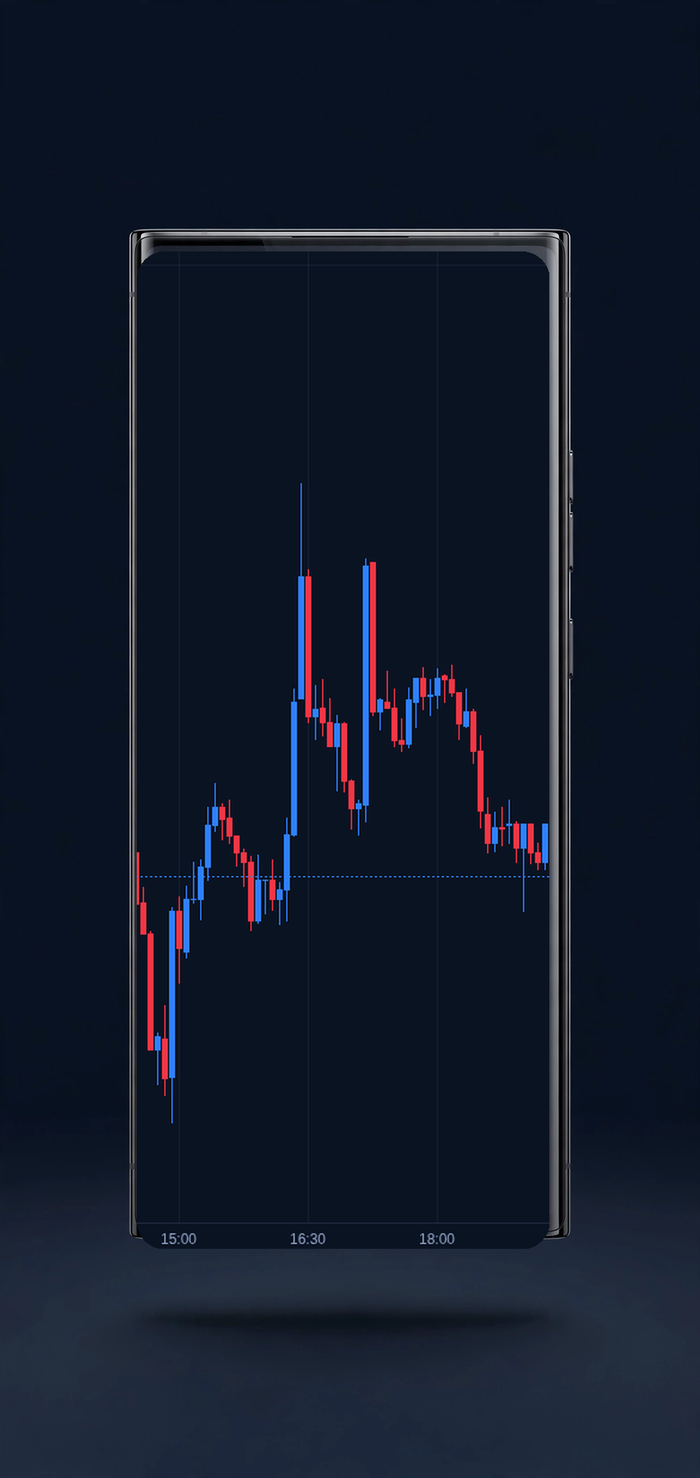
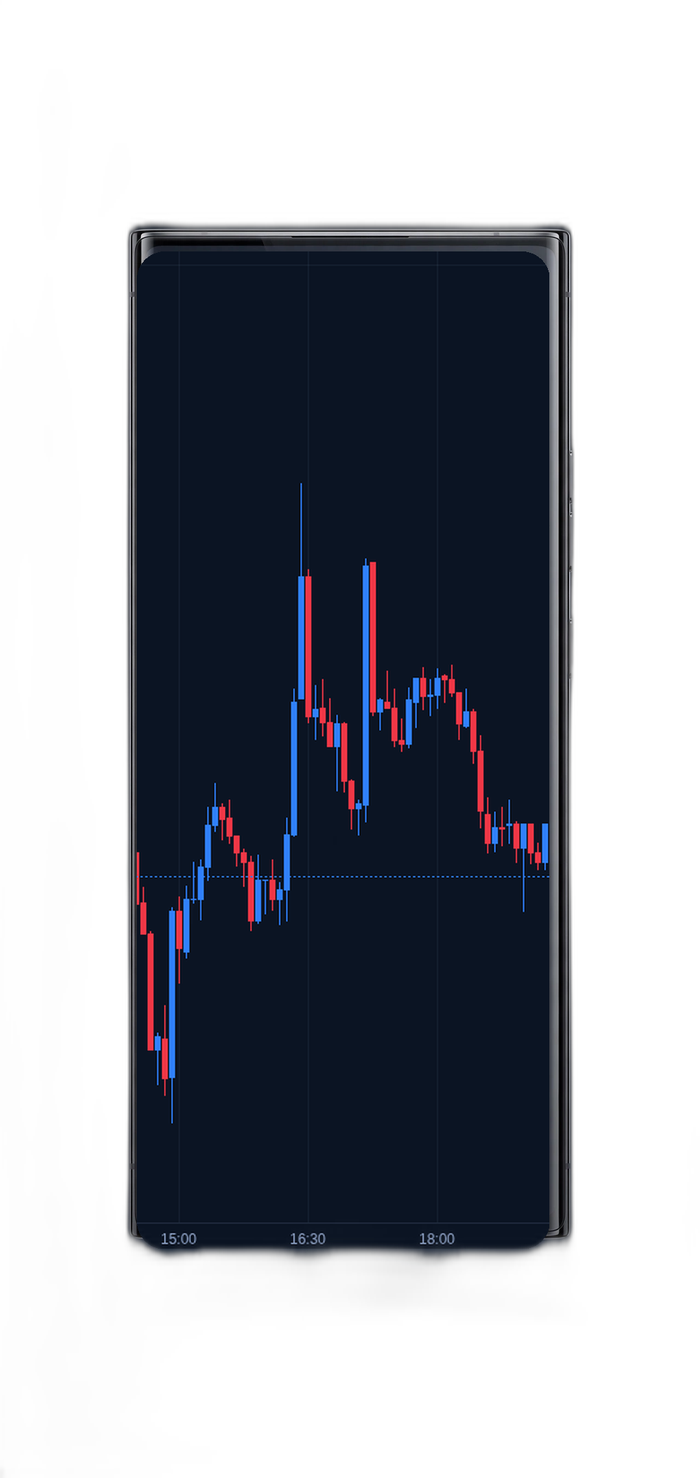
Mobile scroll fix + transparent device imagery
- Fix mobile scroll trap: hero, pitch, app, CTA sections were sticky at all
  widths; sticky stacking is now desktop-only (>=900px), normal flow on mobile
- Hero: new transparent laptop+phone composite (assets/hero-devices.png),
  both terminal views visible, no baked background card
- Markets phone mockup: background removed (transparent PNG)
- Cache-bust styles.css, hero + phone assets (20260929t7)

diff --git a/styles.css b/styles.css
@@ -96,7 +96,7 @@ h3{font-size:1.1rem;font-weight:650}
 .header-actions .btn-ghost,.header-actions .btn-primary{padding:9px 16px;font-size:.88rem}
 
 /* Hero — layered: photo, scrim, candle canvas, content, trust strip */
-.hero{padding:96px 0 110px;position:sticky;top:0;z-index:1;overflow:hidden;min-height:calc(100svh - 64px);display:flex;align-items:center}
+.hero{padding:96px 0 110px;position:relative;z-index:1;overflow:hidden;min-height:calc(100svh - 64px);display:flex;align-items:center}
 .page-curtain{position:relative;z-index:2;background:var(--bg);border-radius:26px 26px 0 0;margin-top:-26px;box-shadow:0 -24px 70px rgba(0,0,0,.45)}
 .hero-inner{will-change:transform,opacity}
 .hero-photo{position:absolute;inset:0;z-index:0;background:url('assets/hero-skyline.jpg') center 70%/cover no-repeat;opacity:.55;pointer-events:none}
@@ -112,7 +112,7 @@ h3{font-size:1.1rem;font-weight:650}
 .hero-trust span{display:flex;align-items:center;gap:7px}
 .hero-trust span+span::before{content:"";width:5px;height:5px;border-radius:50%;background:var(--brand);flex:none}
 /* Hero device (photorealistic laptop) */
-.hero-device{width:min(600px,100%);margin:0 auto;display:block;transform:translate3d(var(--px,0px),var(--py,0px),0);transition:transform .35s ease-out;animation:floaty 8s ease-in-out infinite;filter:drop-shadow(0 34px 64px rgba(0,0,0,.55))}
+.hero-device{width:min(700px,100%);margin:0 auto;display:block;transform:translate3d(var(--px,0px),var(--py,0px),0);transition:transform .35s ease-out;animation:floaty 8s ease-in-out infinite;filter:drop-shadow(0 34px 64px rgba(0,0,0,.55))}
 @keyframes floaty{0%,100%{margin-top:0}50%{margin-top:-12px}}
 @media (prefers-reduced-motion:reduce){.hero-device{animation:none}}
 .hp-top{display:flex;justify-content:space-between;align-items:center}
@@ -305,7 +305,7 @@ h3{font-size:1.1rem;font-weight:650}
 .pay-note{margin-top:10px;font-size:.78rem;color:var(--faint)}
 
 /* Pitch: live demo chart — cinematic candle backdrop + sticky stacking */
-.pitch{position:sticky;top:0;z-index:1;background:#0A1322 url("assets/demo-chart-bg.jpg") center/cover no-repeat;color:#fff;border-radius:0;isolation:isolate}
+.pitch{position:relative;z-index:1;background:#0A1322 url("assets/demo-chart-bg.jpg") center/cover no-repeat;color:#fff;border-radius:0;isolation:isolate}
 .pitch::before{content:"";position:absolute;inset:0;z-index:-1;background:linear-gradient(180deg,rgba(6,11,24,.86),rgba(6,11,24,.62) 45%,rgba(6,11,24,.9))}
 [data-theme="light"] .pitch{background:#0A1322 url("assets/demo-chart-bg.jpg") center/cover no-repeat;color:#fff}
 [data-theme="light"] .pitch::before{background:linear-gradient(180deg,rgba(10,18,36,.88),rgba(10,18,36,.66) 45%,rgba(10,18,36,.92))}
@@ -324,8 +324,8 @@ h3{font-size:1.1rem;font-weight:650}
 .demo-actions{display:grid;grid-template-columns:1fr 1fr;gap:10px;padding:14px 16px 6px}
 .demo-note{text-align:center;font-size:.75rem;color:rgba(255,255,255,.5);padding:8px 16px 14px}
 
-/* Mobile app section */
-.appsec{background:var(--bg-soft);border-top:1px solid var(--line-soft);border-bottom:1px solid var(--line-soft);position:sticky;top:0;z-index:2}
+/* Mobile app section (sticky stacking is desktop-only — see below) */
+.appsec{background:var(--bg-soft);border-top:1px solid var(--line-soft);border-bottom:1px solid var(--line-soft)}
 
 /* Cinematic sticky stacking (desktop only) — each section slides up over the
    one above. Sections keep their own solid backgrounds so the overlap stays
@@ -334,11 +334,14 @@ h3{font-size:1.1rem;font-weight:650}
 .steps{background:var(--bg)}
 .faq{background:var(--bg)}
 @media(min-width:900px){
+  .hero{position:sticky;top:0;z-index:1}
+  .pitch{position:sticky;top:0;z-index:1}
   .appsec{position:sticky;top:0;z-index:2}
   .trust{position:sticky;top:0;z-index:3}
   .steps{position:sticky;top:0;z-index:4}
   .features{position:sticky;top:0;z-index:5}
   .faq{position:sticky;top:0;z-index:6}
+  .cta-band{position:sticky;top:0;z-index:7}
 }
 .site-footer{position:relative;z-index:8}
 @media (prefers-reduced-motion:reduce){
@@ -614,7 +617,7 @@ body[class*="page-"] .blog-card:hover{transform:translateY(-6px);box-shadow:0 20
 }
 
 /* CTA band — full-bleed blue, split layout with main-attraction artwork */
-.cta-band{position:sticky;top:0;z-index:7;overflow:hidden;background:#070D1B url("assets/cta-bg.jpg") center/cover no-repeat;color:#fff;isolation:isolate}
+.cta-band{position:relative;z-index:1;overflow:hidden;background:#070D1B url("assets/cta-bg.jpg") center/cover no-repeat;color:#fff;isolation:isolate}
 .cta-band::before{content:"";position:absolute;inset:0;z-index:-1;background:linear-gradient(115deg,rgba(5,9,20,.9),rgba(5,9,20,.55) 55%,rgba(5,9,20,.82));pointer-events:none}
 .cta-split{position:relative;z-index:1;display:grid;gap:36px;align-items:center}
 .cta-copy h2{color:#fff;margin-bottom:10px}

diff --git a/index.html b/index.html
@@ -16,7 +16,7 @@
 <meta name="twitter:title" content="Trexora — Binary Options Trading Platform">
 <meta name="twitter:description" content="Up or Down. You call it. 410+ instruments, free demo, fast withdrawals.">
 <link rel="icon" type="image/svg+xml" href="assets/favicon.svg">
-<link rel="stylesheet" href="styles.css?v=20260929t6">
+<link rel="stylesheet" href="styles.css?v=20260929t7">
 <script>try{var t=localStorage.getItem('trexora-theme');if(t)document.documentElement.setAttribute('data-theme',t);}catch(e){}</script>
 </head>
 <body>
@@ -90,7 +90,7 @@
         <p class="pay-note">Cards, crypto and bank transfer at the cashier — more providers connect as we launch.</p>
       </div>
       <div class="hero-visual reveal">
-        <img src="assets/hero-laptop.png" class="hero-device" id="heroDevice" alt="Trexora trading terminal on a laptop">
+        <img src="assets/hero-devices.png?v=20260929t7" class="hero-device" id="heroDevice" alt="Trexora trading terminal on laptop and phone">
       </div>
     </div>
     <div class="hero-trust" aria-label="Platform highlights">
@@ -169,7 +169,7 @@
       </div>
       <div class="mkt-stage reveal">
         <div class="mkt-visual">
-          <img src="assets/mkt-phone.png" class="mkt-device" alt="Trexora market chart on a smartphone">
+          <img src="assets/mkt-phone.png?v=20260929t7" class="mkt-device" alt="Trexora market chart on a smartphone">
         </div>
         <div class="mkt-info">
           <h3 id="mktName">Forex</h3>
